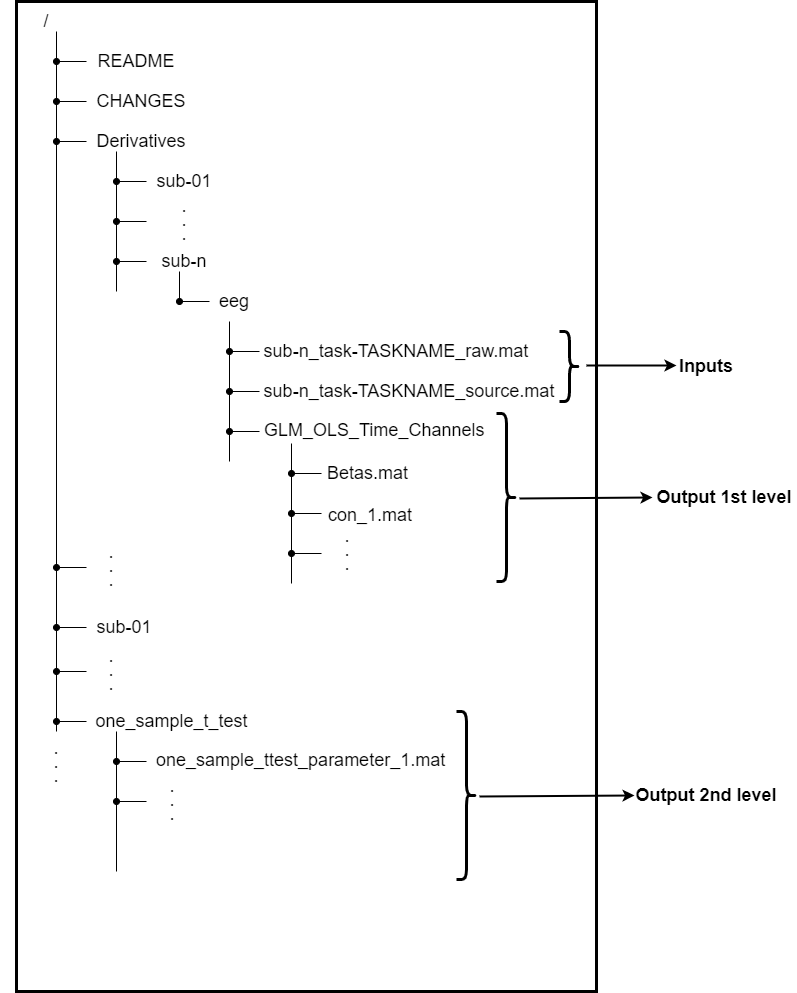
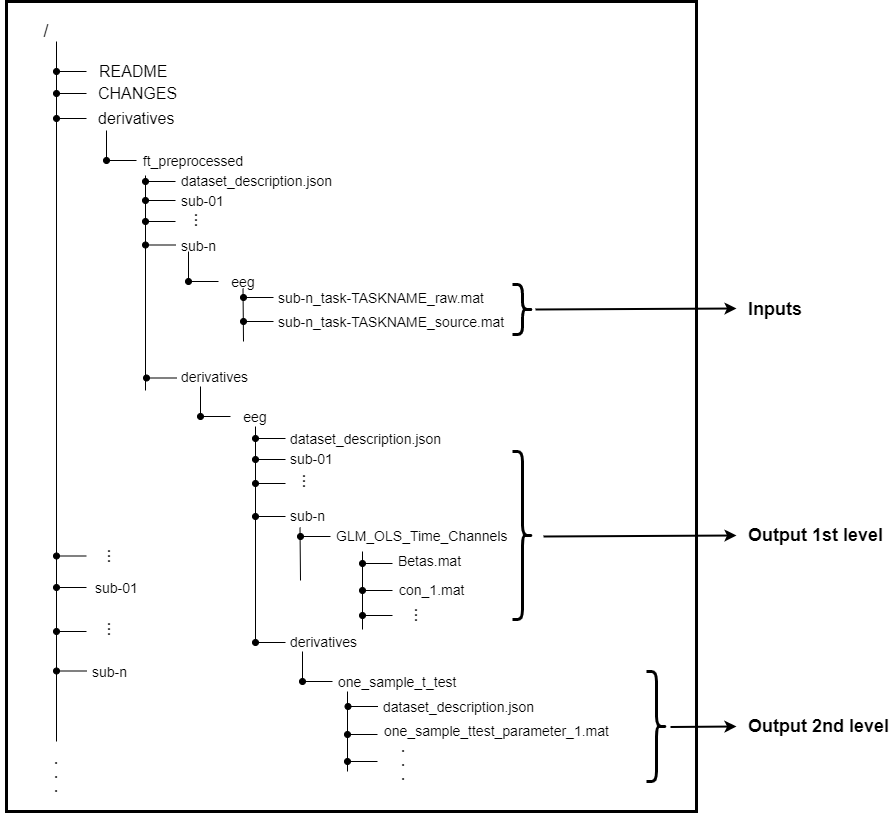
UPDATE - updated LIMO doc following feedbacks

diff --git a/getting_started/limo.md b/getting_started/limo.md
@@ -48,76 +48,112 @@ LIMO EEG integrates FieldTrip functions to deal with FieldTrip data structures. 
 ![LIMO uses FieldTrip](/assets/img/getting_started/limo/LIMO_uses_FieldTrip.png)
 {% include image src="/assets/img/getting_started/limo/LIMO_uses_FieldTrip.png" width="300" %}
 
+
+After having estimated the betas with 1st level analysis, LIMO continues with the 2nd level (group level) analysis.
+
 ### Global framework
 
-Processing data through FieldTrip functions and performing statistical analyses on the proceesed data is made easy by the compatibility of LIMO EEG to FieldTrip data structures. The users can directly design a model with FieldTrip data as input (following BIDS standard). The following code gives an example of how to perform a statistical analysis on a dataset containing 2 categories and 4 covariates:
+Processing data through FieldTrip functions and performing statistical analyses on the proceesed data is made easy by the compatibility of LIMO EEG to FieldTrip data structures. The users can directly design a model with FieldTrip data as input (following BIDS standard). The whole pipeline, in BIDS format, could be described as follow:
 
-** CHANGE THE STUDY TO FACE PAPER (https://github.com/fieldtrip/fieldtrip/blob/release/data2bids.m) AND EXPLAIN WHAT ARE THE CATEGORIES AND WHAT IS THE COVARIATE (TIME FROM 1ST PRESENTATION) **
+![LIMO pipeline description](/assets/img/getting_started/limo/block_schematic_pipeline.png)
+{% include image src="/assets/img/getting_started/limo/block_schematic_pipeline.png" width="300" %}
 
-** ADD trialinfo screenshot to explain the dataset (cat, cov, ...) **
+The following example is related to the EEG dataset of [Wakeman & Henson (2015)](https://www.nature.com/articles/sdata20151) acquired through visual stimulation with 3 face categories (famous, unknown and scrambled) and 1 covariate (the time between the first and the second presentation of a same face). The statistical analysis aims to identify spatio-temporal regions of significant effect of the face type on the Event-Related Potential (ERP) as well as the effect of the time between 2 presentations of the same face. Categories have been coded as integer values: 1(famous), 2(unknown), 3(scrambled). The Covariates are continuous values.
 
-** ADD information about specific subfunctions so that it can be understood by spm, ft and EEGLAB users (e.g. expectations about computation time)**
+1. **Model Design**
 
+The first step is to design the model corresponding to the study. This design consists of different steps:
+
+- The required paths and some additional informations have to be defined
 ```
-% define the required paths
-PATH_TO_ROOT = bids_root_folder;
-PATH_TO_DERIV = bids_derivatives_folder; %location of processed signal (estimated parameters will be stored there after regression)
-PATH_TO_SOURCE = bids_source_data_folder; %in case of source data analysis
+PATH_TO_ROOT = bids_root_folder; %location of main folder (raw data)
+PATH_TO_DERIV = bids_derivatives_folder; %location of processed signal
 
-% define the case
+% define the case (sensor or source level analysis)
 SOURCE_ANALYSIS = false; %set to true if you analyse source data
 
 % define the task to analyse
-task_name = 'semanticPriming';
+task_name = 'faceStudy';
 
-% design the desired contrasts & regressor combination
-%%% contrast syntax %%%
-% [first_factor_combination_vector ;
-%  second_factor_combination_vector;
-%  nth_factor_combination_vector    ]
-%%% regressor syntax %%%
+% trial start and end
+trial_start = -200; %starting time of the trial in ms
+trial_end = 500; %ending time of the trial in ms
+```
+
+- We define the contrast we want to study
+```
+contrast.mat = [1 -0.5 -0.5]; %contrast between famous (the first value) and other categories (the sum of the 2nd and 3rd value)
+```
+
+- The split of the covariates (regressors) has to be defined. Here we want to create 1 column of covariates by regressor (to analyse the influence on each condition)
+```
+regress_cat = { 1 , 1;   
+                2 , 2;
+                3 , 3};  %correspondance between covariate and categories. Here, we create 1 column of covariate by category.
+
+% Note: the following syntax has to be respected for the mapping (/!\ don't use the value 0 /!\):
 % {first_regressor_merging, corresponding_value ;
 %  second_regressor_merging, corresponding_value;
 %  nth_regressor_merging, corresponding_value    }
+```
 
-contrast.mat = [1 -1 0]; %contrast between the 2 categories
-regress_cat = { 1 , 1;   
-                2 , 2};  %correspondance between regressors and categories
-
-% select the desired regressors
+- We select the desired covariates (regressors) to study (in case there are several covariates). Here there is only  1 covariate
+```
 my_trialinfo = 'trialinfo.mat'; %information about trials for each subject, as defined by FT_DEFINETRIAL and FT_PREPROCESSING
-selected_regressors = 3:6; %selection from trialinfo.Properties.VariableNames
-trial_start = -200; %starting time of the trial in ms
-trial_end = 500; %ending time of the trial in ms
+selected_regressors = 4; %selection from trialinfo.Properties.VariableNames (here, the first 3 columns correspond to the categories and the 4th one is the covariate)
+```
 
-% define rejected categories
-%%% /!\/!\/!\/!\/!\ %%%
-%%% WE NEED A CATEGORY TO REJECT TO FIX NaN ISSUES %%%
-%%% BE SURE YOU DIDN'T ALLOCATE THIS LABEL TO A USEFUL CATEGORY %%%
-reject_cat = 0; %we do not use the 0 category in our study (only there for experimental purpose)
+- Create the model (this operation calls raw data of each subject and designs the required matrices... it could take 1 or 2 minutes)
+```
+model = create_model(PATH_TO_DERIV,PATH_TO_SOURCE,SOURCE_ANALYSIS,task_name,my_trialinfo,trial_start,trial_end,selected_regressors,regress_cat);
+```
 
-% create the model
-model = create_model(PATH_TO_DERIV,PATH_TO_SOURCE,SOURCE_ANALYSIS,task_name,my_trialinfo,trial_start,trial_end,selected_regressors,regress_cat,reject_cat);
+2. **First level analysis**
 
-% run the first level analysis (GLM regression)
-cd(PATH_TO_ROOT)
+The beta and contrast estimates are computed subject by subject through a parallel computing pipeline.
+
+As we want both the betas (ERP model) and contrast (conditional difference) to be computed and stored as "derivatives 2" (cf. pipeline figure), we do the following
+```
+cd(PATH_TO_DERIV)
 option = 'both'; %'model specification', 'contrast only' or 'both'
-[LIMO_files, procstatus] = limo_batch(option,model,contrast); %writes beta and contrast estimates to disk in derivatives folder
+```
 
-% perform T-test on the contrast estimates
-expected_chanlocs = limo_avg_expected_chanlocs(PATH_TO_DERIV, model.defaults);
+Now that everything is properly defined, we can run the computation (Almost all your CPU cores will be requested for this task, it's time to grasp a coffee...)
+```
+[LIMO_files, procstatus] = limo_batch(option,model,contrast); %writes beta and contrast estimates to disk in derivatives 2 folder
+```
 
+3. **Second level analysis**
+
+The group-level analysis will run as a parallel computing pipeline on contrast estimates (in this example).
+
+We first need an estimates of the channel locations representing all the subjects. Here we consider the channel-by-channel average position
+```
+ expected_chanlocs = limo_avg_expected_chanlocs(PATH_TO_DERIV, model.defaults);
+```
+
+We then select the targeted first-level estimates (here the first contrast, corresponding to face type comparison) and the name of the corresponding statistical test we want to perform
+```
 my_con = 'con_1'
+cd('derivatives/eeg') %path to 1st level analysis output
 LIMOfiles = fullfile(pwd,sprintf('%s_files_GLM_OLS_Time_Channels.txt',my_con));
-if ~exist(['t_test_' my_con],'dir')
-    mkdir(['t_test_' my_con])
+if ~exist(['derivatives/t_test_' my_con],'dir')
+    mkdir(['derivatives/t_test_' my_con])
 end
-cd(['t_test_' my_con])
-LIMOPath = limo_random_select('one sample t-test',expected_chanlocs,'LIMOfiles',... 
+cd(['derivatives/t_test_' my_con])
+```
+
+Finally, we run the second level analysis mentioning the desired statistical test to perform, the desired number of bootstrap repetitions and if a threshold free cluster enhancement ([Pernel *et al.*, 2015](https://www.ncbi.nlm.nih.gov/pmc/articles/PMC4510917/)) has to be computed. Another parallel computing pipeline will start, it should last less time than the first-level analysis.
+```
+stat_test = 'one sample t-test'; %desired statistical test
+nboot = 1000; %number of boostrap repetition
+tfce = 1; %set to 0 if the threshold free enhancement algorithm does not have to be run
+
+LIMOPath = limo_random_select(stat_test,expected_chanlocs,'LIMOfiles',... 
     LIMOfiles,'analysis_type','Full scalp analysis',...
-    'type','Channels','nboot',1000,'tfce',1,'skip design check','yes');
+    'type','Channels','nboot',nboot,'tfce',tfce,'skip design check','yes');
 ```
 
 Then, results can be plot by calling `limo_results` function. By selecting "clustering" as MC correction and the generated "one_sample_ttest_parameter_1.mat" through "image all", you obtain the regions of significant difference between the categories as shown by this figure:
-![LIMO T-test](/assets/img/getting_started/limo/ttest_example.jpg)
-{% include image src="/assets/img/getting_started/limo/ttest_example.jpg" width="300" %}
+![LIMO T-test](/assets/img/getting_started/limo/example_results.jpg)
+{% include image src="/assets/img/getting_started/limo/example_results.jpg" width="300" %}
